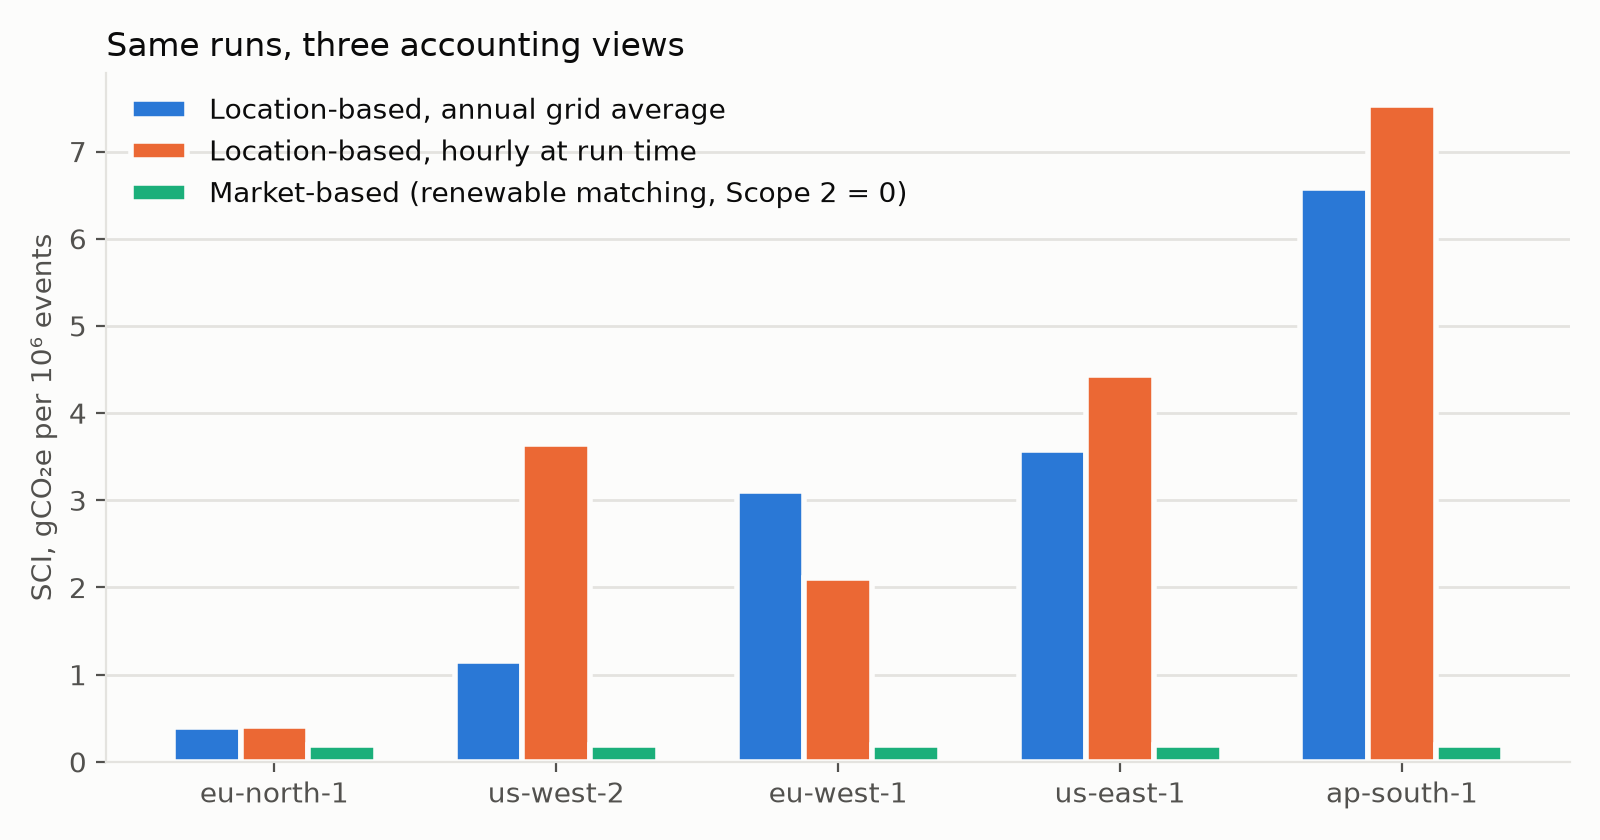
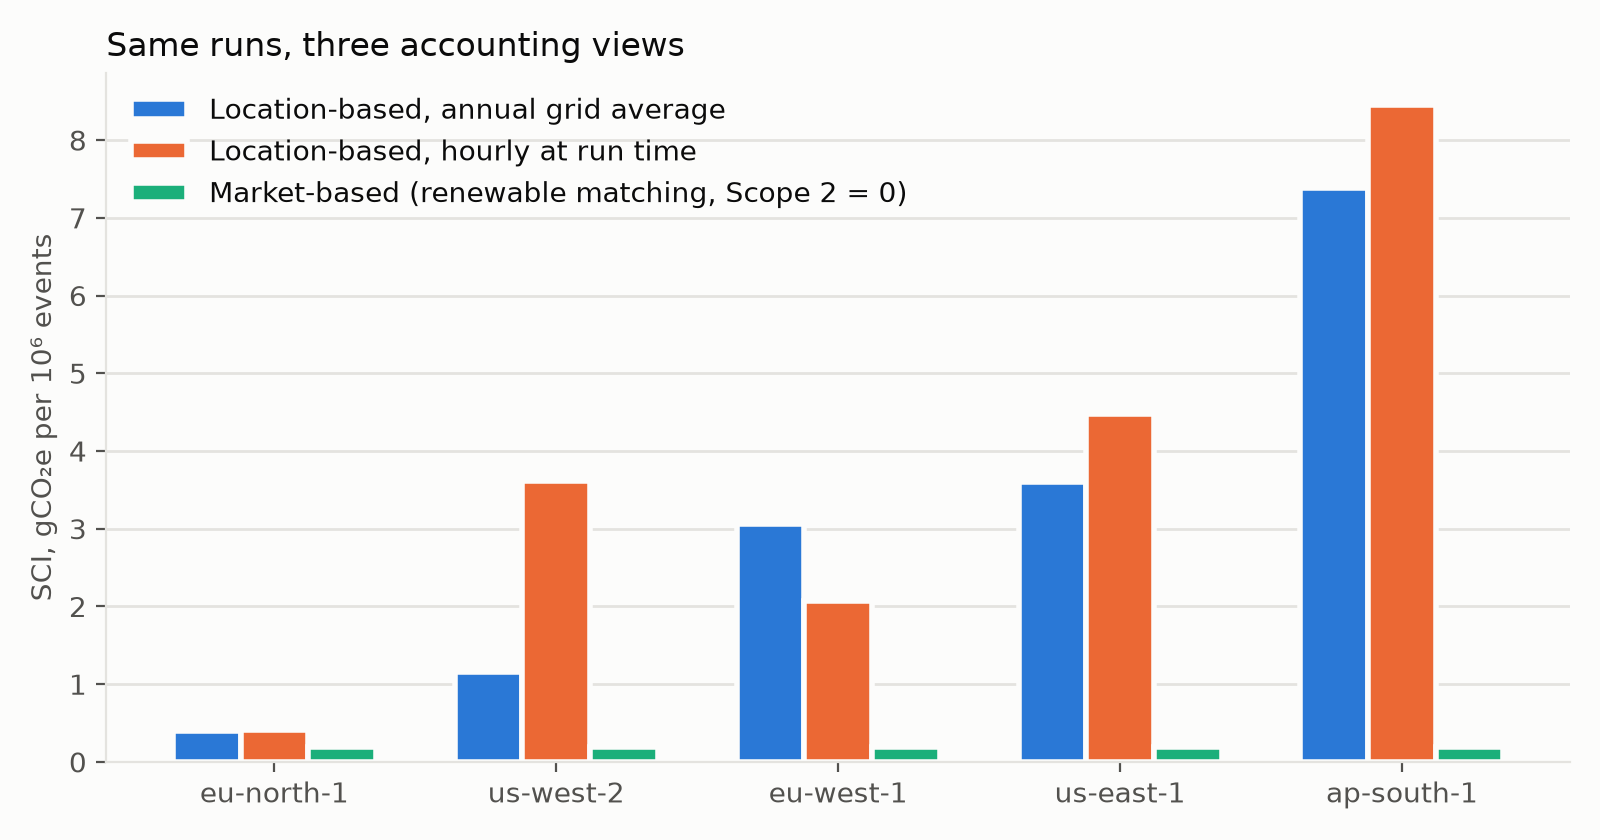
Use AWS's per-region PUE instead of the continental averages
The sustainability page now publishes PUE for each AWS Region. Take the
2023 values for the five regions (access date 2026-10-31) and regenerate
results, figures and the README numbers. Mumbai's PUE goes from 1.28 to
1.44, so the carbon spread is now 18x (20x with hourly grid values).

diff --git a/README.md b/README.md
@@ -6,7 +6,7 @@ Run the same CPU-bound benchmark in several AWS regions and estimate the
 lifecycle carbon footprint and the compute cost per unit of work, using the
 Software Carbon Intensity (SCI) formula from ISO/IEC 21031:2024.
 
-**Same instance type, same workload, same throughput: 16× difference in
+**Same instance type, same workload, same throughput: 18× difference in
 carbon, 12% difference in cost.**
 
 ![Cost vs carbon per unit of work](docs/figures/cost-vs-carbon.png)
@@ -17,9 +17,9 @@ Five regions, m5.large, 10 × 600 s sysbench cpu runs per region over two
 sessions on 2026-10-11. All numbers are reproducible from `data/raw/` with
 `make results`.
 
-1. **Region choice moves carbon 16×, cost 12%.** Stockholm (eu-north-1)
-   emits 0.40 gCO₂e per 10⁶ events, Mumbai (ap-south-1) 6.58, with the
-   annual grid average (18× with hourly grid values). Throughput was
+1. **Region choice moves carbon 18×, cost 12%.** Stockholm (eu-north-1)
+   emits 0.40 gCO₂e per 10⁶ events, Mumbai (ap-south-1) 7.38, with the
+   annual grid average (20× with hourly grid values). Throughput was
    about 643 events/s everywhere except one Mumbai instance. On-demand cost
    ranged from 4.14 to 4.62 US cents per 10⁶ events.
 2. **On a clean grid, the hardware dominates.** In Stockholm, embodied
@@ -32,8 +32,8 @@ sessions on 2026-10-11. All numbers are reproducible from `data/raw/` with
    region choice does not matter; the location-based view says it is the
    biggest lever you have.
 4. **When you run matters too.** In Oregon (us-west-2) the grid at run time
-   was 3.6× its annual average (low autumn hydro), so SCI went from 1.16 to
-   3.65. In Ireland it went the other way (3.11 → 2.10).
+   was 3.6× its annual average (low autumn hydro), so SCI went from 1.15 to
+   3.62. In Ireland it went the other way (3.06 → 2.07).
 5. **The power model is the largest uncertainty.** Swapping the Teads
    power curve for the Cloud Carbon Footprint coefficients lowers SCI by
    30–58% in every region. For us-west-2 the grid-zone definition matters
@@ -48,10 +48,10 @@ sessions on 2026-10-11. All numbers are reproducible from `data/raw/` with
 | Region | CPU | events/s ± SD | I annual (g/kWh) | SCI annual | SCI hourly | SCI market-based | Embodied share | USD/h | ¢ per 10⁶ events |
 |---|---|---|---|---|---|---|---|---|---|
 | eu-north-1 | 8259CL | 644.3 ± 0.4 | 21.3 | 0.40 | 0.41 | 0.20 | 48.9% | 0.102 | 4.40 |
-| us-west-2 | 8175M/8259CL | 643.1 ± 1.0 | 98 | 1.16 | 3.65 | 0.20 | 17.0% | 0.096 | 4.15 |
-| eu-west-1 | 8175M/8259CL | 643.0 ± 0.8 | 301.2 | 3.11 | 2.10 | 0.20 | 6.3% | 0.107 | 4.62 |
-| us-east-1 | 8259CL | 643.4 ± 0.9 | 343 | 3.57 | 4.44 | 0.20 | 5.5% | 0.096 | 4.14 |
-| ap-south-1 | 8175M | 666.4 ± 31.2 | 598 | 6.58 | 7.53 | 0.19 | 2.9% | 0.101 | 4.22 |
+| us-west-2 | 8175M/8259CL | 643.1 ± 1.0 | 98 | 1.15 | 3.62 | 0.20 | 17.1% | 0.096 | 4.15 |
+| eu-west-1 | 8175M/8259CL | 643.0 ± 0.8 | 301.2 | 3.06 | 2.07 | 0.20 | 6.4% | 0.107 | 4.62 |
+| us-east-1 | 8259CL | 643.4 ± 0.9 | 343 | 3.60 | 4.47 | 0.20 | 5.5% | 0.096 | 4.14 |
+| ap-south-1 | 8175M | 666.4 ± 31.2 | 598 | 7.38 | 8.45 | 0.19 | 2.6% | 0.101 | 4.22 |
 
 SCI in gCO₂e per 10⁶ sysbench events. Per-run values:
 `data/processed/sci-results.csv`; per-region summary:
@@ -68,7 +68,7 @@ SCI in gCO₂e per 10⁶ sysbench events. Per-run values:
 
 | Term | Meaning | Where it comes from |
 |---|---|---|
-| E | Energy (kWh) | Measured CPU utilisation (CloudWatch, 1-min) × published per-instance power curve (Teads) × AWS regional PUE |
+| E | Energy (kWh) | Measured CPU utilisation (CloudWatch, 1-min) × published per-instance power curve (Teads) × AWS PUE for the region |
 | I | Grid carbon intensity (gCO₂e/kWh), location-based | Electricity Maps / Google Cloud region table / Ember |
 | M | Embodied emissions (gCO₂e) allocated to the run | Boavizta API |
 | R | Functional unit | 10⁶ sysbench events |
@@ -197,7 +197,8 @@ docs/               IAM policy, architecture diagram, figures
 ## Assumptions and limitations
 
 - Power is modelled, not measured; Teads data dates from 2021.
-- PUE is AWS's published regional average, not per data centre.
+- PUE is AWS's published 2023 figure for each region, averaged over its
+  data centres; the 2025 figures are 0.00–0.04 lower.
 - Grid intensity zone mapping is approximate for us-west-2 and ap-south-1.
 - Hourly grid values are point readings at run time, not a full history.
 - Boavizta covers the server share only (no network, storage, building).

diff --git a/data/coefficients/README.md b/data/coefficients/README.md
@@ -5,7 +5,7 @@ year and access date:
 
 - `power.csv`: m5.large power at Idle/10/50/100% load (Teads), plus the
   Cloud Carbon Footprint coefficients used in the sensitivity analysis.
-- `pue.csv`: AWS regional PUE.
+- `pue.csv`: PUE per AWS Region, as published by Amazon.
 - `grid-intensity.csv`: annual location-based grid intensity per region,
   with an alternative source used in the sensitivity analysis.
 - `em-hourly.csv`: Electricity Maps readings taken at run time (one row
